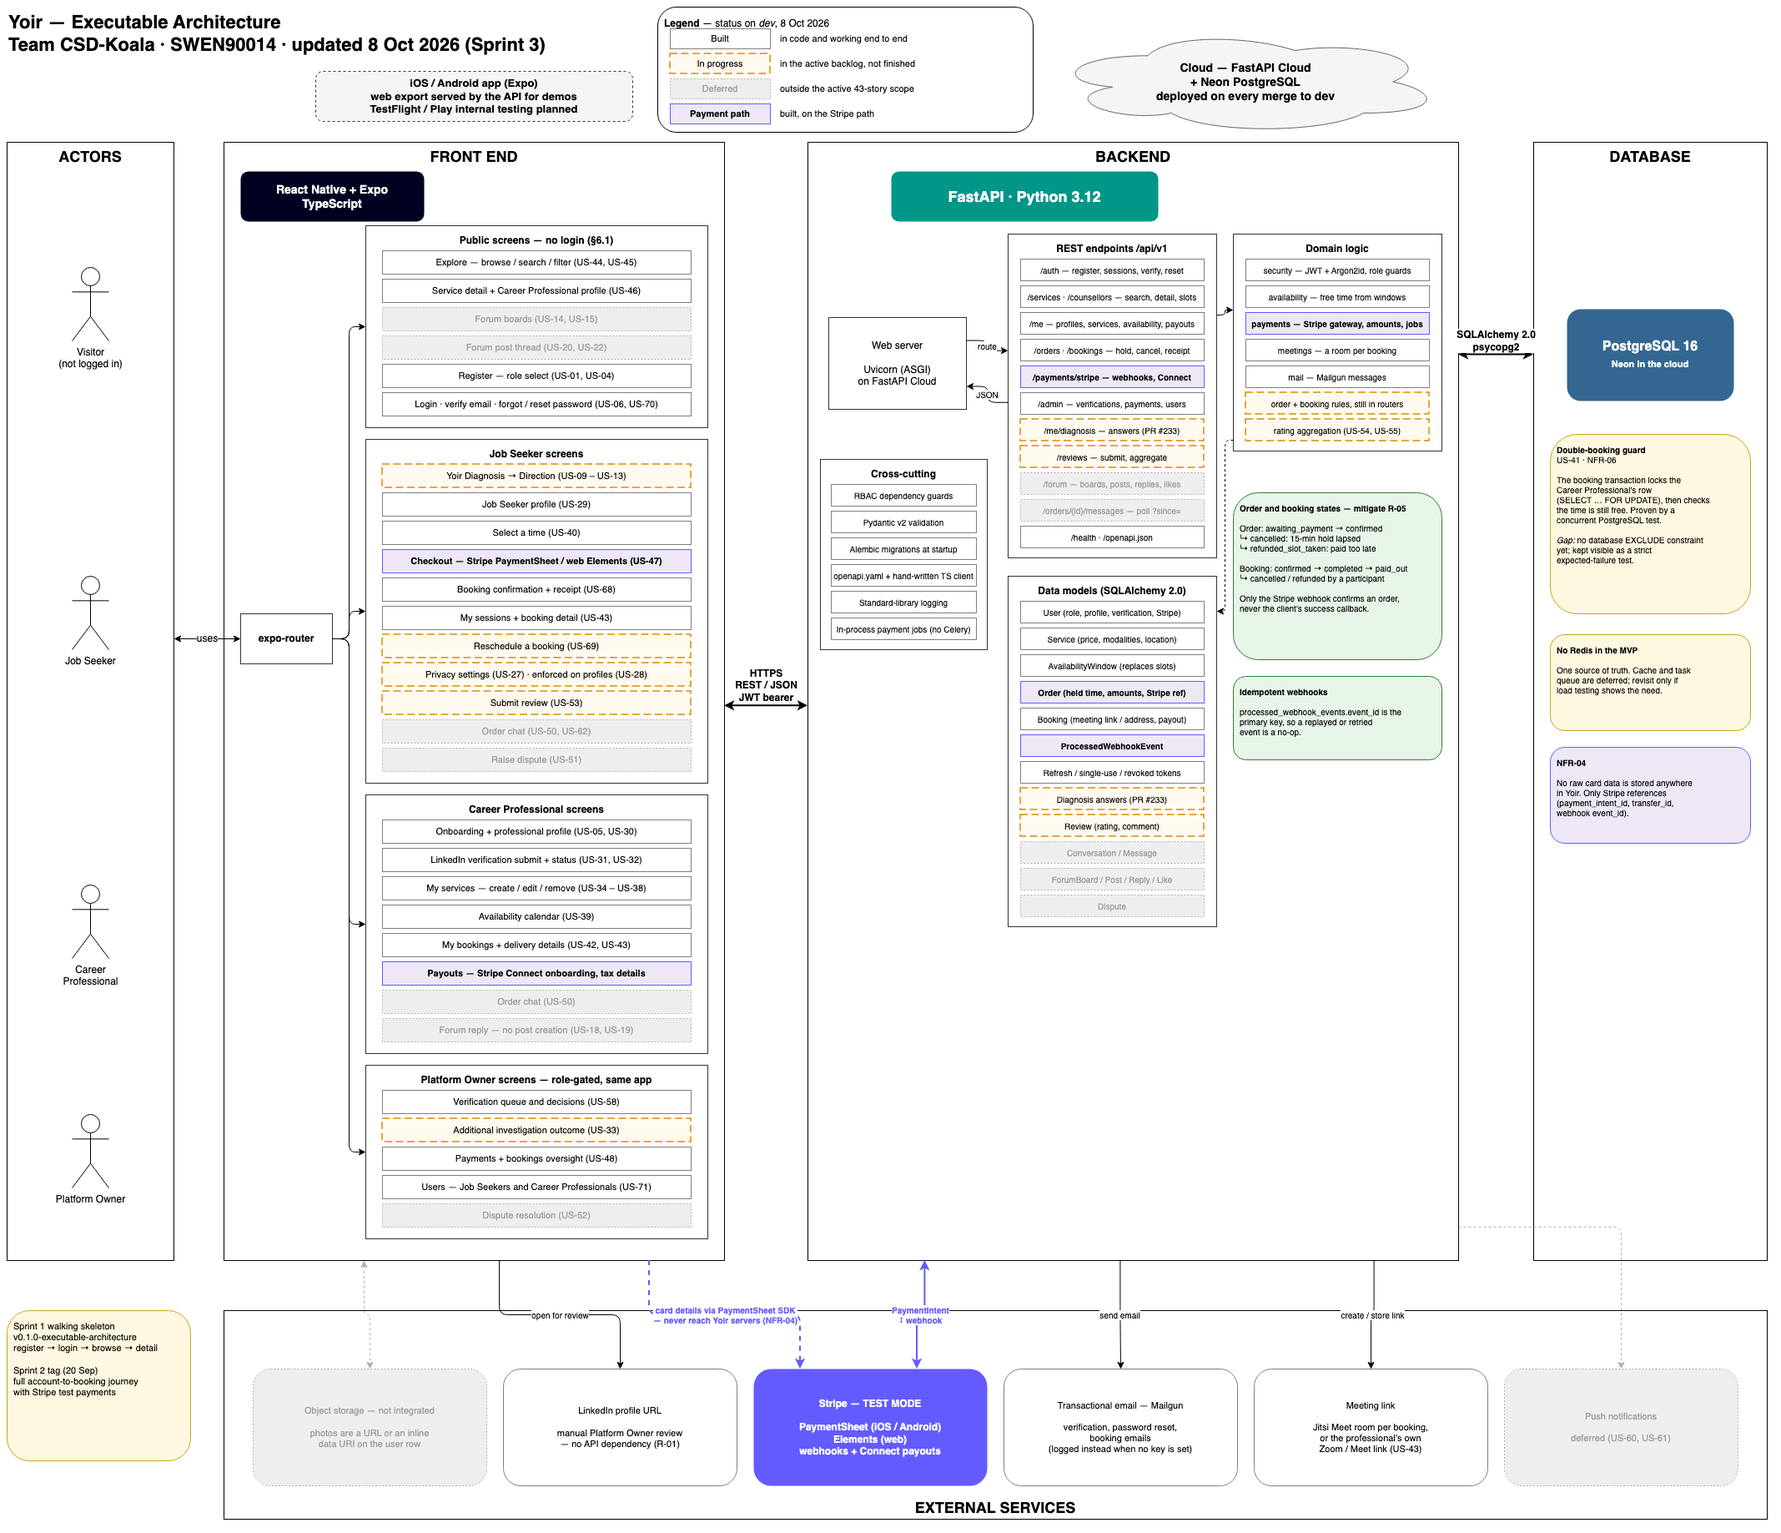
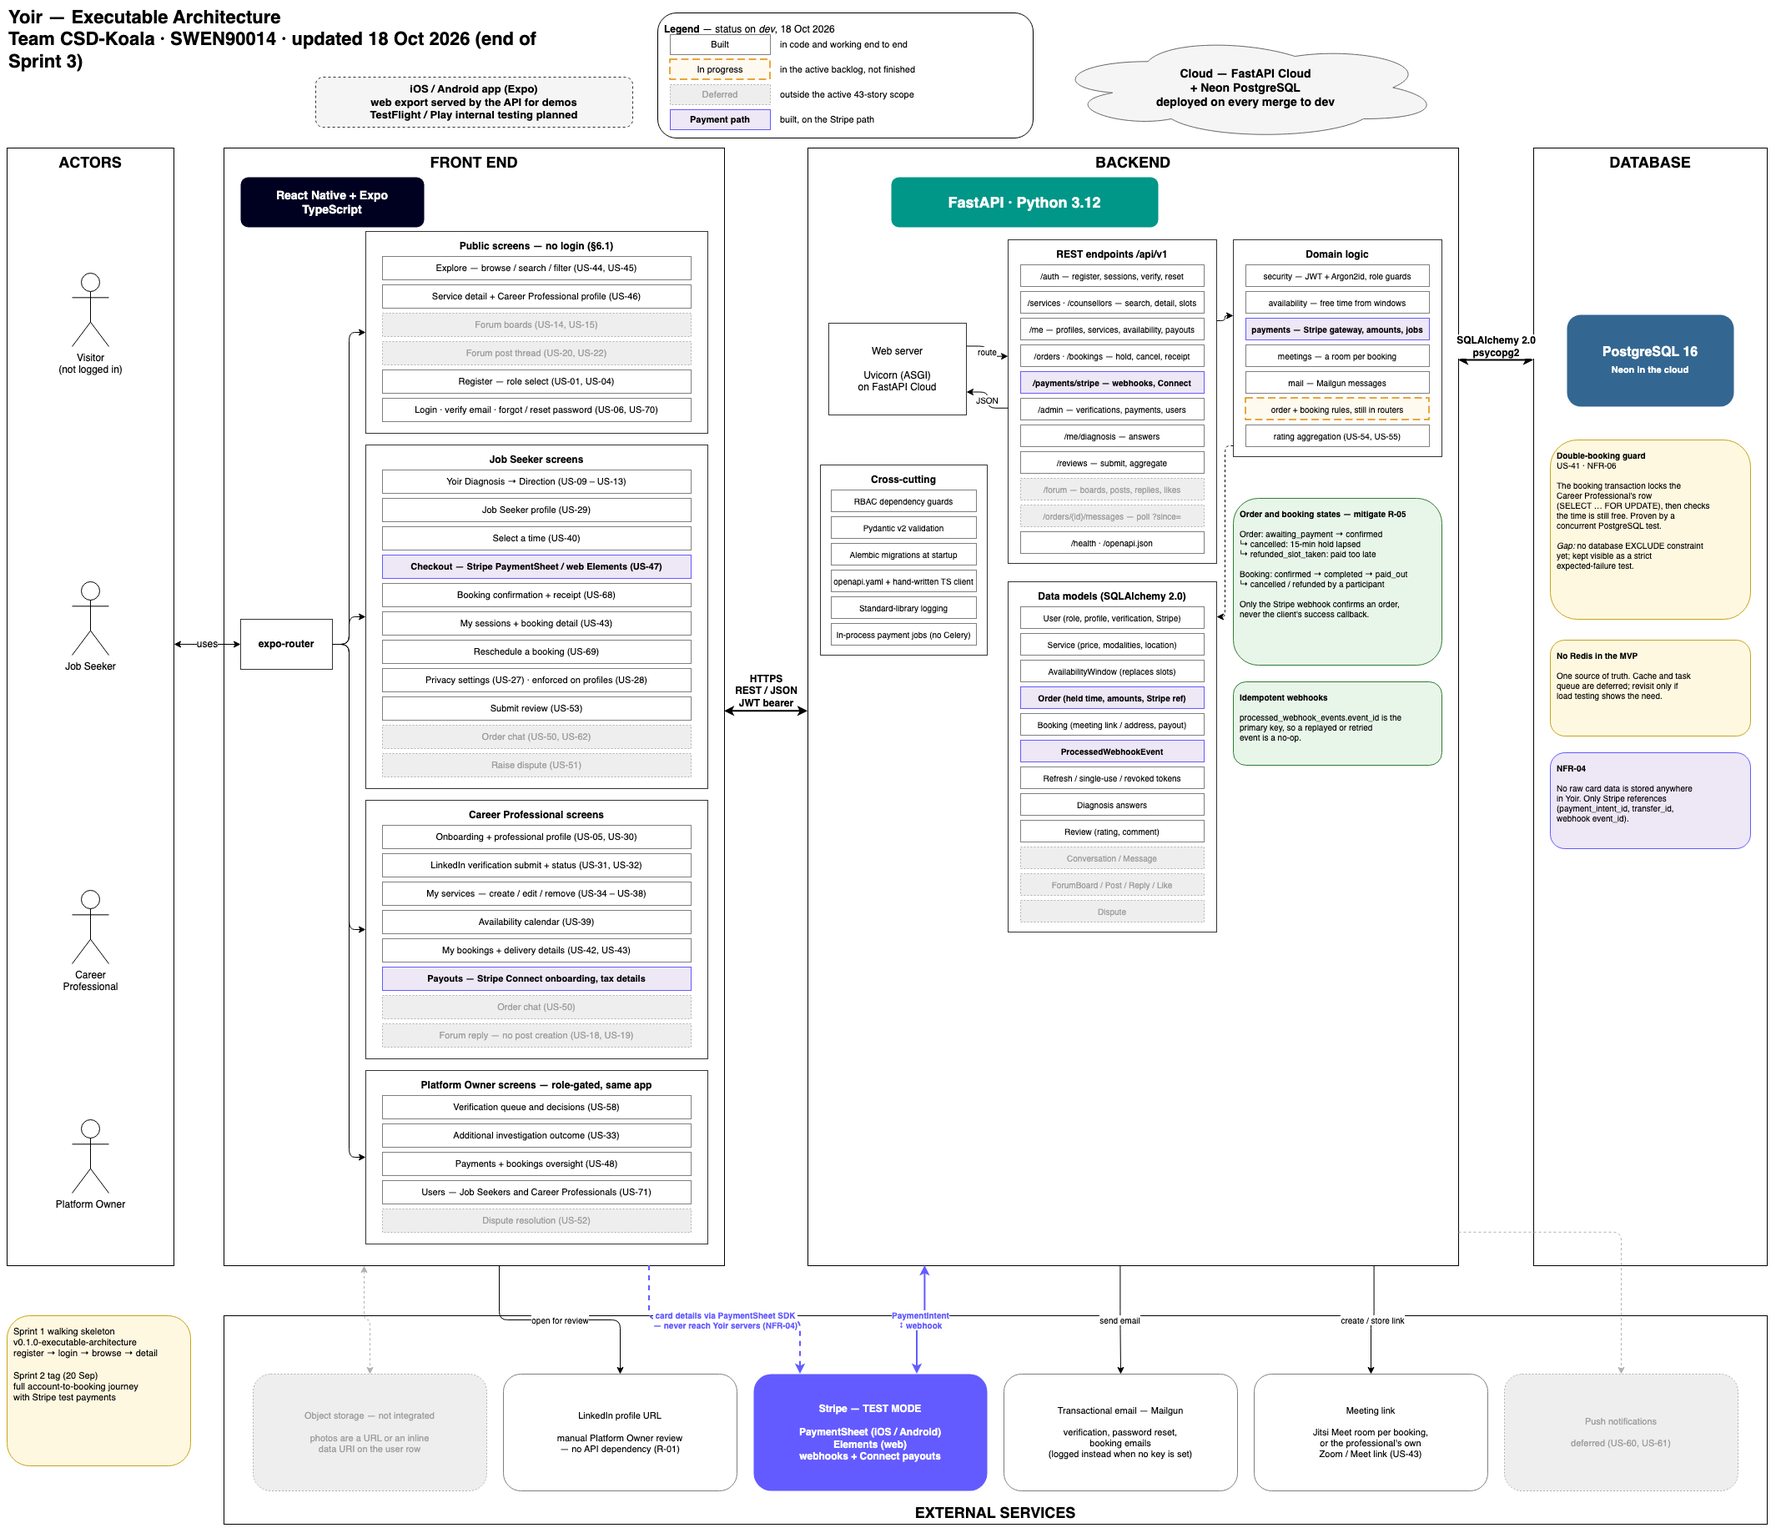
docs(design): design concept, diagram and schema document match the Sprint 3 build

diff --git a/docs/sprint1/design-by-concept/design-by-concept.md b/docs/sprint1/design-by-concept/design-by-concept.md
@@ -1,6 +1,6 @@
 # Design by Concept: Yoir
 
-Team CSD-Koala · SWEN90014 Semester 2, 2026 · First written in Sprint 1 · Updated 8 October 2026 to match the build
+Team CSD-Koala · SWEN90014 Semester 2, 2026 · First written in Sprint 1 · Updated 8 October 2026 and 18 October 2026 to match the build
 
 This document explains the architecture drawn in
 [`design-by-concept.drawio`](design-by-concept.drawio)
@@ -25,6 +25,8 @@ component with a status:
 - **Deferred** (grey box): outside the active 43-story scope
   ([Requirements](https://github.com/swen90014-2026-sm2/SWEN90014-2026-CSD-Koala/wiki/Requirements), RR-08).
 - **Payment path** (purple box): built components on the Stripe path.
+
+On 18 October 2026, at the end of Sprint 3, the statuses were checked again against `dev` (code at commit `8713b38`). The diagnosis, reviews and ratings, privacy settings, reschedule and the additional-investigation outcome are now built, and the diagram and the reuse plan (§8) mark them so.
 
 | Area | Sprint 1 design | Built |
 |---|---|---|
@@ -151,7 +153,7 @@ Uvicorn serves the FastAPI application on FastAPI Cloud. Inside:
   Alembic migrations applied at startup, the published OpenAPI schema,
   standard-library logging, and an in-process periodic job that releases lapsed
   holds, completes sessions and pays Career Professionals.
-- **Data models**: SQLAlchemy 2.0 mappings for nine tables. The as-built tables
+- **Data models**: SQLAlchemy 2.0 mappings for eleven tables. The as-built tables
   and the design are in
   [`database-schema.md`](database-schema.md).
 
@@ -368,7 +370,7 @@ routing and the ORM. Build the rules specific to Yoir: booking holds, order stat
 Career Professional verification, and role and ownership checks. When a library provides
 the mechanism and Yoir supplies the rules, the component is a **mix**.
 
-**Status** is checked against `dev` at commit `4f579d3` on 8 October 2026.
+**Status** is checked against `dev` at commit `8713b38` on 18 October 2026.
 *Implemented* means in code and tested; *Partial* means some of it is in code;
 *Planned* means it is in the active backlog but not built; *Deferred* means it is
 outside the active 43-story scope.
@@ -377,7 +379,7 @@ outside the active 43-story scope.
 
 | Component | Decision | Reused | Built by the team | Why this is cost-effective | Serves | Status |
 |---|---|---|---|---|---|---|
-| App shell and navigation | Mix | Handover Expo scaffold as the project base, upgraded to Expo SDK 57; React Native; `expo-router`; React Navigation | All screens, the role gate (`AuthContext`), route layout | One codebase covers iOS and Android with two frontend developers. Routing and native bridging are solved problems; screens and role rules are specific to Yoir | `CLIENT-04`, `NFR-02` | Implemented for accounts, Explore, booking and checkout, the Career Professional workspace and payouts, and the Platform Owner screens. In progress: the diagnosis (answers stay on the device until PR #233), reviews and reschedule |
+| App shell and navigation | Mix | Handover Expo scaffold as the project base, upgraded to Expo SDK 57; React Native; `expo-router`; React Navigation | All screens, the role gate (`AuthContext`), route layout | One codebase covers iOS and Android with two frontend developers. Routing and native bridging are solved problems; screens and role rules are specific to Yoir | `CLIENT-04`, `NFR-02` | Implemented for accounts, the diagnosis, Explore, booking, checkout and reschedule, privacy and reviews, the Career Professional workspace and payouts, and the Platform Owner screens. A desktop layout for wide screens was added to the web build on 17 October |
 | UI components and theme | Mix | `@expo/vector-icons`, `react-native-svg`, `expo-linear-gradient`, Google Fonts | Button, form field, notice and screen components; theme tokens; motion | The screen set is small and follows the baseline prototypes. A full component library would need its theming overridden on most screens | `NFR-01`, `NFR-03` | Implemented |
 | API client | Built now, mix planned | Platform `fetch`, TypeScript | Typed client (`src/api/client.ts`) and error mapping. The Sprint 1 in-memory demo API has been removed | Hand-writing was quicker while the contract kept changing. Generating types from `openapi.yaml` with `openapi-typescript` pays off now that the contract has 67 operations | `NFR-07` | Hand-written client implemented; generation planned |
 
@@ -388,11 +390,11 @@ outside the active 43-story scope.
 | HTTP API layer | Mix | FastAPI, Uvicorn, Pydantic v2, `pydantic-settings`, `email-validator`, FastAPI's OpenAPI generation | Ten routers (auth, services, bookings, counsellor, job seeker, profile, admin, payments, webhooks, health), schemas, the error envelope | Validation and a live OpenAPI schema come with the framework, so the team writes only Yoir's endpoints | `NFR-05`, `NFR-07` | Implemented |
 | Domain services | Built | Nothing; these are Yoir's business rules | Booking, order, verification and ownership rules, testable without HTTP | No library holds these rules, and keeping them out of routers makes them cheap to unit test | `NFR-05`, `NFR-06` | Partial: availability, payments, meetings and mail are separate modules; order and booking rules still sit in the routers |
 | Authentication and sessions | Mix | `argon2-cffi` (Argon2id, RFC 9106 profile), PyJWT | Token issue and verification, revocation at logout, role guards | Password hashing and token signing should never be hand-written. A hosted identity service would add another external account and boundary for what two libraries already cover | `US-01`–`US-08`, `US-70`, `NFR-04` | Implemented, including email verification and password reset |
-| Data models | Mix | SQLAlchemy 2.0, `psycopg2` | Table mappings, seed data | The ORM is commodity; the schema is Yoir's | `database-schema.md` | Partial: nine tables built (`users`, `services`, `availability_windows`, `orders`, `bookings`, `processed_webhook_events`, `refresh_tokens`, `single_use_tokens`, `revoked_tokens`). Review and diagnosis tables are planned; messaging, dispute and forum tables are deferred |
-| Schema migrations | Reused | Alembic | Migration scripts only | A migration tool is commodity, so building one would be wasted effort | Deployed database | Implemented: eight Alembic revisions, applied at startup |
+| Data models | Mix | SQLAlchemy 2.0, `psycopg2` | Table mappings, seed data | The ORM is commodity; the schema is Yoir's | `database-schema.md` | Implemented: eleven tables (`users`, `services`, `availability_windows`, `orders`, `bookings`, `diagnoses`, `reviews`, `processed_webhook_events`, `refresh_tokens`, `single_use_tokens`, `revoked_tokens`). Messaging, dispute and forum tables are deferred |
+| Schema migrations | Reused | Alembic | Migration scripts only | A migration tool is commodity, so building one would be wasted effort | Deployed database | Implemented: twelve Alembic revisions, applied at startup |
 | Concurrency control | Mix | PostgreSQL 16 row locks | The Career Professional row lock and the overlap check in the booking transaction | The database already handles concurrent writes correctly. Redis or a distributed lock adds infrastructure without a stronger guarantee (§7) | `US-41`, `NFR-06` | Implemented: row lock, proven by a concurrent PostgreSQL test. The database `EXCLUDE` constraint is planned; its absence is a strict expected-failure test (§4) |
 | Order-linked messaging | Mix | PostgreSQL, HTTP polling | Conversation storage, `?since=` polling, the closed-conversation rule | Polling avoids running WebSocket infrastructure for two-person text chat (§7) | `US-49`, `US-50`, `US-62`, `US-63` | Deferred (Requirements RR-08) |
-| Diagnosis and direction | Built | Nothing at runtime; the content is the client's `Yoir Diagnosis.xlsx` | The six-step flow, saved answers, the direction rules and the hand-off into Explore | These are Yoir's own rules; no library holds them | `US-09`–`US-13` | Partial: front end merged, with answers kept on the device; back-end persistence in PR #233; direction rules await client approval (Requirements RR-13, RR-14) |
+| Diagnosis and direction | Built | Nothing at runtime; the content is the client's `Yoir Diagnosis.xlsx` | The six-step flow, saved answers, the direction rules and the hand-off into Explore | These are Yoir's own rules; no library holds them | `US-09`–`US-13` | Implemented: saved answers (PR #233), the direction and Explore criteria (PR #236), connected end to end (PR #242). The questions and direction rules are the team's version 1 and await client approval (Requirements RR-13, RR-14) |
 
 ### External boundaries
 
@@ -401,7 +403,7 @@ outside the active 43-story scope.
 | Payments | Mix | Stripe test mode: PaymentIntents, PaymentSheet (`@stripe/stripe-react-native`), Stripe Elements on the web build, webhooks, Stripe Connect | One gateway module (`app/payments/gateway.py`), the amount split, the order and booking states, idempotent webhook handling, the hold-release and payout jobs, a labelled stub for deployments without keys | Card handling must be reused so card data never reaches Yoir; only the booking-side rules are ours. One gateway module makes live keys a configuration change | `US-47`, `US-48`, `NFR-04`, `NFR-06`, `R-03`, `R-05` | Implemented in test mode |
 | Transactional email | Mix | Mailgun | A send adapter that logs instead of sending when no key is set; verification, password-reset, booking and verification-decision messages | Deliverability (spam filtering, retries) is not worth building | `US-70`, `US-68`, `US-58` | Implemented |
 | Object storage | Mix | S3-compatible storage (provider unconfirmed, §10 item 4); `expo-image-picker` on the device | Upload endpoint, ownership checks, image references on profiles and services | Keeping files outside the database is cheap and standard; the access rules are Yoir's | Profile and service images | Deferred: no storage integrated. Photos are a URL or an inline data URI on the user row, chosen with `expo-image-picker` |
-| Career Professional verification | Built | Nothing at runtime | LinkedIn URL submission and the Platform Owner review queue | LinkedIn's API does not return what verification needs (`R-01`); manual review needs no integration | `US-31`–`US-33`, `US-58`, `CLIENT-01` | Implemented for submission, status and the Platform Owner decision (`US-31`, `US-32`, `US-58`); the additional-investigation outcome (`US-33`) is in progress |
+| Career Professional verification | Built | Nothing at runtime | LinkedIn URL submission and the Platform Owner review queue | LinkedIn's API does not return what verification needs (`R-01`); manual review needs no integration | `US-31`–`US-33`, `US-58`, `CLIENT-01` | Implemented for submission, status, the Platform Owner decision and the additional-investigation outcome (`US-31`–`US-33`, `US-58`) |
 | Online session delivery | Reused | Jitsi Meet rooms by default, or the Career Professional's own Zoom / Google Meet link | Creating and storing the link when a booking is confirmed; the in-person meeting address | Built-in video is out of scope (baseline §7.2) | `US-43` | Implemented |
 
 ### Build, deploy and quality

diff --git a/docs/sprint1/design-by-concept/database-schema.md b/docs/sprint1/design-by-concept/database-schema.md
@@ -11,6 +11,8 @@ flow describe the built mechanism; the other sections keep the Sprint 1 design
 for tables that are planned or deferred. See
 [Changes on 8 October 2026](#changes-on-8-october-2026) for what moved and why.
 
+**Updated 18 October 2026, end of Sprint 3.** The build on `dev` now has eleven tables (Alembic revisions `0001`–`0012`). Sprint 3 added `diagnoses` (`0009`, US-09–US-13) and `reviews` (`0010`, US-53–US-55), and froze the service title (`0011`) and the in-person meeting area (`0012`) on `orders` so a purchase keeps what was bought (US-36). Reschedule (US-69) is built on the existing tables. The tables and statuses below are current at 18 October.
+
 ## Schema as built
 
 | Table | Purpose | Key fields |
@@ -18,14 +20,16 @@ for tables that are planned or deferred. See
 | `users` | Every account in one wide table distinguished by `role`, with the Career Professional's profile, verification and Stripe Connect fields | email (unique), password_hash, role, email_verified_at, sessions_invalidated_at, profile_visibility, photo_url, qualifications / expertise / languages (JSON), base_location_state/city, default_modality, verification_status, overall_rating, review_count, stripe_account_id, payouts_enabled, abn, gst_registered |
 | `services` | Services a Career Professional sells | counsellor_id, title, description, price_minor, currency, duration_minutes, modalities (JSON), location_state/city, meeting_url, active, average_rating, review_count |
 | `availability_windows` | Spans of a Career Professional's time open for booking | counsellor_id, starts_at, ends_at, modalities |
-| `orders` | A checkout: the held time and the amount split, frozen at booking | job_seeker_id, service_id, window_id, starts_at, ends_at, status, payment_status, hold_expires_at, payment_intent_id (unique), amount_minor, platform_fee_minor, counsellor_payout_minor, pre_session_brief |
+| `orders` | A checkout: the held time and the amount split, frozen at booking | job_seeker_id, service_id, window_id, starts_at, ends_at, status, payment_status, hold_expires_at, payment_intent_id (unique), amount_minor, platform_fee_minor, counsellor_payout_minor, pre_session_brief, service_title, meeting_area |
+| `diagnoses` | One Yoir Diagnosis per Job Seeker | job_seeker_id (unique), questionnaire_version, answers (JSON), revision, created_at, updated_at |
+| `reviews` | A buyer's rating and comment for a completed session | booking_id (unique), order_id, service_id, counsellor_id, job_seeker_id, rating, comment, created_at |
 | `bookings` | A confirmed session, created from a paid order | order_id (unique), service_id, window_id, job_seeker_id, counsellor_id, starts_at, ends_at, status, meeting_url, meeting_address, transfer_id (unique), refunded_minor, flagged_for_review |
 | `processed_webhook_events` | Stripe webhook events already handled | event_id (primary key), event_type, processed_at |
 | `refresh_tokens` | Refresh tokens, rotated on every use | token_digest (primary key), family_id, user_id, expires_at, used_at, revoked_at |
 | `single_use_tokens` | Email-verification and password-reset links | token_digest (primary key), user_id, purpose, expires_at, used_at |
 | `revoked_tokens` | Access tokens revoked at logout | token_digest (primary key), expires_at, revoked_at |
 
-| Sprint 1 design | Status on 8 October 2026 |
+| Sprint 1 design | Status on 18 October 2026 |
 |---|---|
 | `users` | Built, with profile, verification and Stripe Connect fields added |
 | `services` | Built. Prices are in minor units; a `modalities` list replaces `modality` |
@@ -34,11 +38,11 @@ for tables that are planned or deferred. See
 | `payment_events` | Replaced by `processed_webhook_events`; the PaymentIntent id lives on `orders` |
 | `password_reset_tokens` | Built as `single_use_tokens`, which also holds email-verification links |
 | `refresh_tokens` | Built; `revoked_tokens` added for access tokens revoked at logout |
-| `reviews` | Planned (US-53–US-55, Sprint 3) |
+| `reviews` | Built in Sprint 3 (`0010_reviews`, US-53–US-55). One review per booking (`UNIQUE (booking_id)`) rather than per order. The service and Career Professional ratings are recomputed in application code (`backend/app/reviews.py`) on each review, not by a database trigger |
 | `messages` | Deferred (Requirements RR-08) |
 | `disputes` | Deferred (RR-08). A Stripe chargeback flags the booking for Platform Owner review instead (`bookings.flagged_for_review`) |
 | `forum_posts`, `forum_replies`, `forum_likes` | Deferred (RR-08) |
-| Diagnosis answers (not in the Sprint 1 design) | Planned: PR #233 adds diagnosis persistence for US-09–US-11 |
+| Diagnosis answers (not in the Sprint 1 design) | Built as `diagnoses` (`0009_diagnosis_progress`, PR #233): one record per Job Seeker with versioned answers and a revision number that rejects a stale save. The direction and Explore criteria (US-12, US-13) are computed from it and not stored |
 
 ## Schema as designed in Sprint 1
 
@@ -332,6 +336,9 @@ For each major action, which table gets read and which gets written, in order.
 
 **Reschedule a booking** (`US-69`, planned; to be re-specified against
 availability windows and the row lock above)
+
+*As built in Sprint 3:* `POST /bookings/{bookingId}/reschedule` locks the booking row, then the Career Professional's row (the same lock as booking), checks the new time against the availability windows and the other bookings, and moves the same order and booking in place in one transaction. No new order is created and no payment is retaken; a time taken by someone else returns `SLOT_UNAVAILABLE` and the original booking is unchanged. The Sprint 1 steps below assumed slot rows, which the build replaced with availability windows.
+
 1. Read the order; confirm the requester is a participant and the booking is
    eligible
 2. In one transaction: lock and claim the new slot, set
@@ -353,6 +360,8 @@ availability windows and the row lock above)
 3. Trigger fires automatically: updates `services.avg_rating`/`review_count`
    (matched on `service_id`) and `users.avg_rating`/`review_count`
    (matched on `counsellor_id`) — no separate write from the application
+
+*As built in Sprint 3:* the review is accepted only from the buyer of a completed or paid-out booking, `UNIQUE (booking_id)` rejects a second review, and the application recomputes both ratings in the same transaction instead of a trigger.
 
 **Post / reply / like in the forum**
 1. Insert into `forum_posts` (author_id, category, title, content) — app
